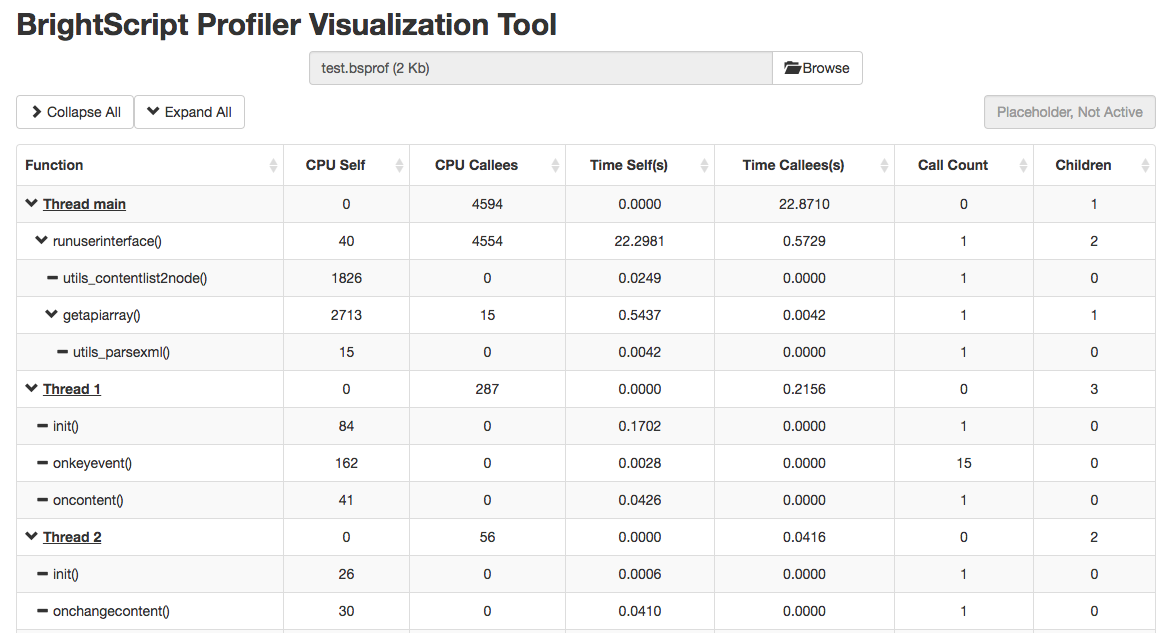
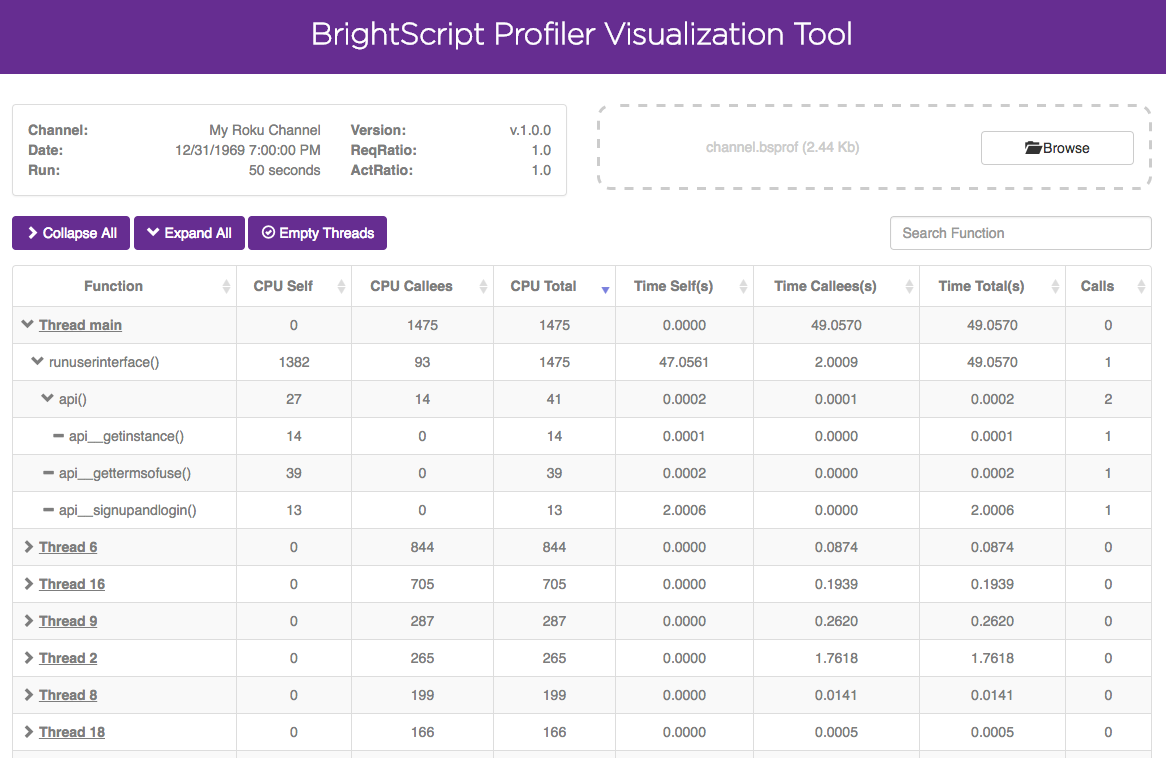
Updated web viewer details

diff --git a/develop/developer-tools/bs-profiler.md b/develop/developer-tools/bs-profiler.md
@@ -1,5 +1,7 @@
 # BrightScript Profiler
 
+![](../../images/visualization-tool.png)
+
 ### Overview
 
 The BrightScript Profiler gathers important metrics such as CPU usage, "wall-clock" time (the real world time for functions to complete), and the number of times functions are called during the execution of your channel. This tool can help you analyze where performance improvements and efficiencies can be made in your channel.
@@ -43,7 +45,7 @@ After you've run through your channel's test cases, click on `Profiling Data` to
 
 ![](../../images/profiling-data-ready.png)
 
-The `.bsprof` format is unique to Roku to ensure the format is as efficient and small as possible and easy to generate even on low end Roku devices. Proceed to the next section to see how to access the data.
+The `.bsprof` format is unique to Roku to ensure the format is as efficient and small as possible and easy to generate even on low end Roku devices.
 
 ## Processing the data
 
@@ -51,101 +53,25 @@ After you've downloaded the `.bsprof` file, the data can be viewed using the Bri
 
 ![](../../images/visualization-tool.png)
 
-Alternatively, the `.bsprof` file can also be processed with the following command line utilities for Linux:
-
-* **Linux 32-bit version:** [bsprofdump_linux_i686](https://devtools.web.roku.com/profiler/linux_i686/bsprofdump_linux_i686.zip)
-* **Linux 64-bit version:** [bsprofdump_linux_x86_x64](https://devtools.web.roku.com/profiler/linux_x86_64/bsprofdump_linux_x86_64.zip)
-
-**Sample command:**
-
-`$ ./bsprofdump channel.bsprof`
-
-This should generate a profiling report like the following:
-
-![](../../images/profiler-log.png)
-
-> You can also output the data to a separate file like so:
-
-> `$ ./bsprofdump channel.bsprof > channel-bsprof-log.txt`
-
 ## Understanding the data
 
-The profiling data is divided into 4 main sections. The CPU time and wall-clock time sections are also divided into separate sections for `self` and `total`. `self` refers to the CPU/wall-clock time the function itself consumed whereas `total` also includes the time consumed by any callees (other functions called by the `self` function).
+The profiling data is divided into 4 main sections: The function (and associated call path which can be expanded), CPU time, wall-clock time, and function call counts. The CPU time and wall-clock time sections are further divided into separate sections for `self`, `callees`, and `total`. `self` refers to the CPU/wall-clock time the function itself consumed whereas `callees` is the amount of time consumed by any functions called by the original function. `total` is the amount of time consumed by the original function (`self`) and any `callee` functions.
 
-**Top CPU time consumers**
+**Function call paths**
 
-This section lists the top functions consuming the largest amount of CPU time (`cpu.self` or `cpu.total`). CPU time refers to the number of operations each function takes to complete and this number should be equal on low end and high end Roku devices. Other information such as the module the function belongs to, the wall-clock time (`tm.self` or `tm.total`), and the number of times the function was called (`calls`) is also displayed.
+This section of the profiling data contains the function calls in each thread. For SceneGraph applications, each thread corresponds to either the main BrightScript thread or a single instance of a `<component>`. For example, if you have a Task node that is instantiated multiple times, each instance will appear as a separate thread. The results will be the same for any custom `<component>` in your channel that is instantiated multiple times. The main BrightScript thread (`Thread main`) is also represented as a single thread even though it has no `<component>`.
 
-```
-------------- BEGIN: TOP CONSUMERS: CPU.TOTAL (SELF+CALLEES) -----------------
- 1: [module 0(main)] runuserinterface(): cpu.total=4594,cpu.self=40,tm.total=22.871,tm.self=22.298,calls=1
- 2: [module 0(main)] <global>: cpu.total=4594,cpu.self=0,tm.total=22.871,tm.self=0.000,calls=0
- 3: [module 0(main)] getapiarray(): cpu.total=2728,cpu.self=2713,tm.total=0.548,tm.self=0.544,calls=1
- 4: [module 0(main)] utils_contentlist2node(): cpu.total=1826,cpu.self=1826,tm.total=0.025,tm.self=0.025,calls=1
- 5: [module 8] <global>: cpu.total=1702,cpu.self=0,tm.total=0.476,tm.self=0.000,calls=0
- 6: [module 6] <global>: cpu.total=788,cpu.self=0,tm.total=0.054,tm.self=0.000,calls=0
- 7: [module 8] onlistitemselected(): cpu.total=549,cpu.self=145,tm.total=0.043,tm.self=0.039,calls=1
- 8: [module 8] utils_getsubelement(): cpu.total=532,cpu.self=142,tm.total=0.004,tm.self=0.001,calls=2
- 9: [module 8] onvideostatechange(): cpu.total=505,cpu.self=189,tm.total=0.004,tm.self=0.002,calls=2
- ...
-```
+**CPU time**
 
-**Top wall-clock time consumers**
+The first 3 columns of the visualization tool lists the time consumed by the CPU process (`CPU Self`), any other functions that are called (`CPU Callees`), and the total amount of time consumed (`CPU Self` + `CPU Callees`). **CPU time refers to the number of operations each function takes to complete and this number should be equal on low end and high end Roku devices.**
 
-This section lists the function calls consuming the greatest amount of wall-clock time. Wall-clock time refers to the real world time that a function takes to complete. This value can vary across different Roku devices. For example, a function may take an equal number of operations to complete across different Roku devices but low end Roku devices can take more real world time to complete one operation than a high end Roku device.
+**Wall-clock time**
 
-```
-------------- BEGIN: TOP CONSUMERS: TIME.TOTAL (SELF+CALLEES) -----------------
- 1: [module 0(main)] runuserinterface(): tm.total=22.871,tm.self=22.298,cpu.total=4594,cpu.self=40,calls=1
- 2: [module 0(main)] <global>: tm.total=22.871,tm.self=0.000,cpu.total=4594,cpu.self=0,calls=0
- 3: [module 0(main)] getapiarray(): tm.total=0.548,tm.self=0.544,cpu.total=2728,cpu.self=2713,calls=1
- 4: [module 8] <global>: tm.total=0.476,tm.self=0.000,cpu.total=1702,cpu.self=0,calls=0
- 5: [module 8] onvideovisibilitychange(): tm.total=0.420,tm.self=0.419,cpu.total=161,cpu.self=49,calls=1
- 6: [module 1] <global>: tm.total=0.216,tm.self=0.000,cpu.total=287,cpu.self=0,calls=0
- 7: [module 1] init(): tm.total=0.170,tm.self=0.170,cpu.total=84,cpu.self=84,calls=1
- 8: [module 6] <global>: tm.total=0.054,tm.self=0.000,cpu.total=788,cpu.self=0,calls=0
- 9: [module 6] oncreatenextpanelindex(): tm.total=0.047,tm.self=0.001,cpu.total=203,cpu.self=79,calls=2
-10: [module 6] utils_addnextpanel(): tm.total=0.047,tm.self=0.047,cpu.total=124,cpu.self=124,calls=2
-11: [module 8] onlistitemselected(): tm.total=0.043,tm.self=0.039,cpu.total=549,cpu.self=145,calls=1
-12: [module 1] oncontent(): tm.total=0.043,tm.self=0.043,cpu.total=41,cpu.self=41,calls=1
-...
-```
+The next 3 columns lists the amount of "wall-clock" time for the function, its callees, and the total. **Wall-clock time refers to the real world time that a function takes to complete. This value can vary across different Roku devices.** For example, a function may take an equal number of operations to complete across different Roku devices but low end Roku devices can take more real world time to complete one operation than a high end Roku device.
 
 **Function call counts**
 
-As the name implies, this section lists functions by the number of times they were called when the channel ran with profiling enabled (highest number of call counts to lowest).
-
-```
-------------- BEGIN: TOP CONSUMERS: CALL.COUNT -----------------
- 1: [module 8] utils_isvalid(): calls=18,cpu.self=198,cpu.total=198,tm.self=0.001,tm.total=0.001
- 2: [module 1] onkeyevent(): calls=15,cpu.self=162,cpu.total=162,tm.self=0.003,tm.total=0.003
- 3: [module 6] onfocusedchildchange(): calls=8,cpu.self=78,cpu.total=180,tm.self=0.001,tm.total=0.001
- 4: [module 8] utils_isstring(): calls=8,cpu.self=104,cpu.total=192,tm.self=0.001,tm.total=0.002
- 5: [module 4] onvisibilitychanged(): calls=8,cpu.self=228,cpu.total=228,tm.self=0.003,tm.total=0.003
- 6: [module 6] utils_setoverhangdata(): calls=6,cpu.self=102,cpu.total=102,tm.self=0.000,tm.total=0.000
- 7: [module 8] onfocusedchildchange(): calls=5,cpu.self=116,cpu.total=116,tm.self=0.005,tm.total=0.005
- 8: [module 8] utils_asstring(): calls=4,cpu.self=60,cpu.total=200,tm.self=0.000,tm.total=0.001
- ...
-```
-
-**Call paths for each module**
-
-This section of the profiling data contains the function calls each module executes. For SceneGraph applications, each module corresponds to either the main BrightScript thread or a single instance of a `<component>`. For example, if you have a Task node that is instantiated multiple times, each instance will appear as a separate executable module. The results will be the same for any custom `<component>` in your channel that is used multiple times — each instance will appear as a separate executable module. The main BrightScript thread is also represented as a single executable module, even though it has no `<component>`.
-
-```
---------------- BEGIN CALL PATHS: MODULE 6 ---------------
-Module index: 6
-Number of call paths: 8
-<global>: cpu.self=0,cpu.callees=788,tm.self=0.000,tm.callees=0.054
-+- init(): cpu.self=68,cpu.callees=337,tm.self=0.002,tm.callees=0.004
-|  +- getlistcontent(): cpu.self=99,cpu.callees=0,tm.self=0.000,tm.callees=0.000
-|  +- utils_contentlist2node(): cpu.self=238,cpu.callees=0,tm.self=0.003,tm.callees=0.000
-+- oncreatenextpanelindex(): cpu.self=79,cpu.callees=124,tm.self=0.001,tm.callees=0.047
-|  +- utils_addnextpanel(): cpu.self=124,cpu.callees=0,tm.self=0.047,tm.callees=0.000
-+- onfocusedchildchange(): cpu.self=78,cpu.callees=102,tm.self=0.001,tm.callees=0.000
-  +- utils_setoverhangdata(): cpu.self=102,cpu.callees=0,tm.self=0.000,tm.callees=0.000
----------------- END CALL PATHS: MODULE 6 ---------------
-```
+As the name implies, this column lists the number of times they were called when the channel ran with profiling enabled.
 
 ## Using this data
 
